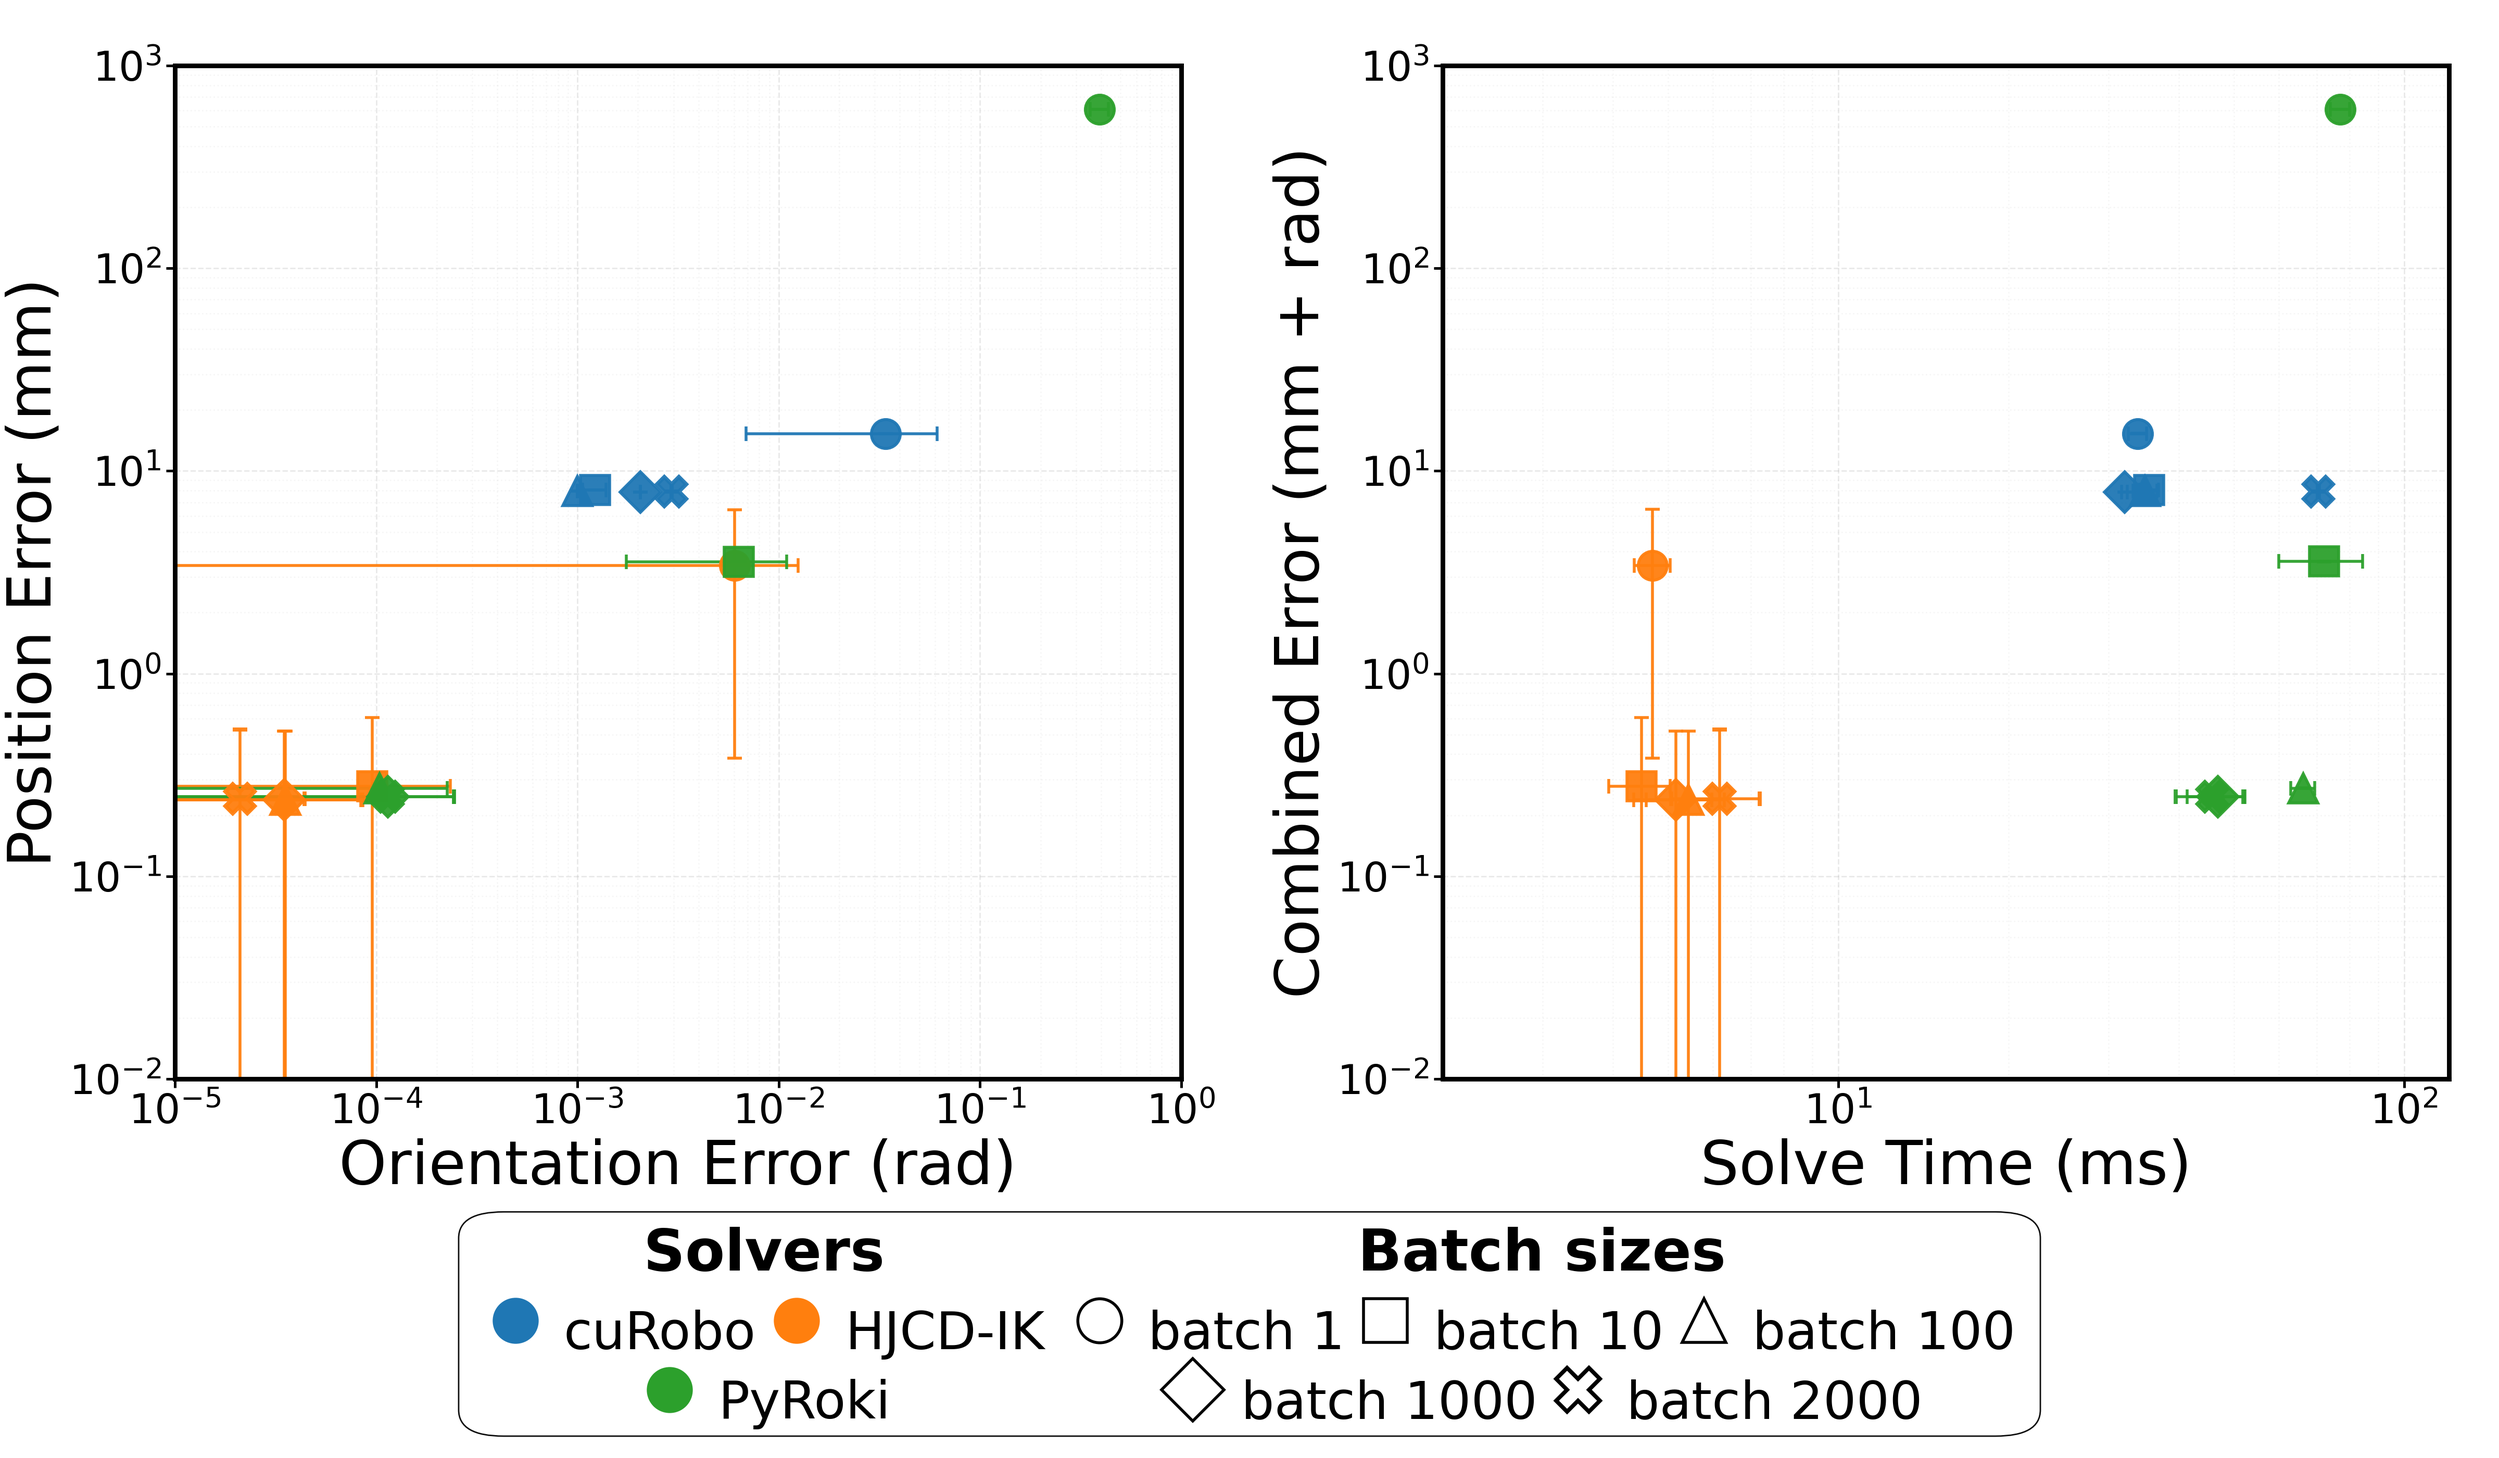
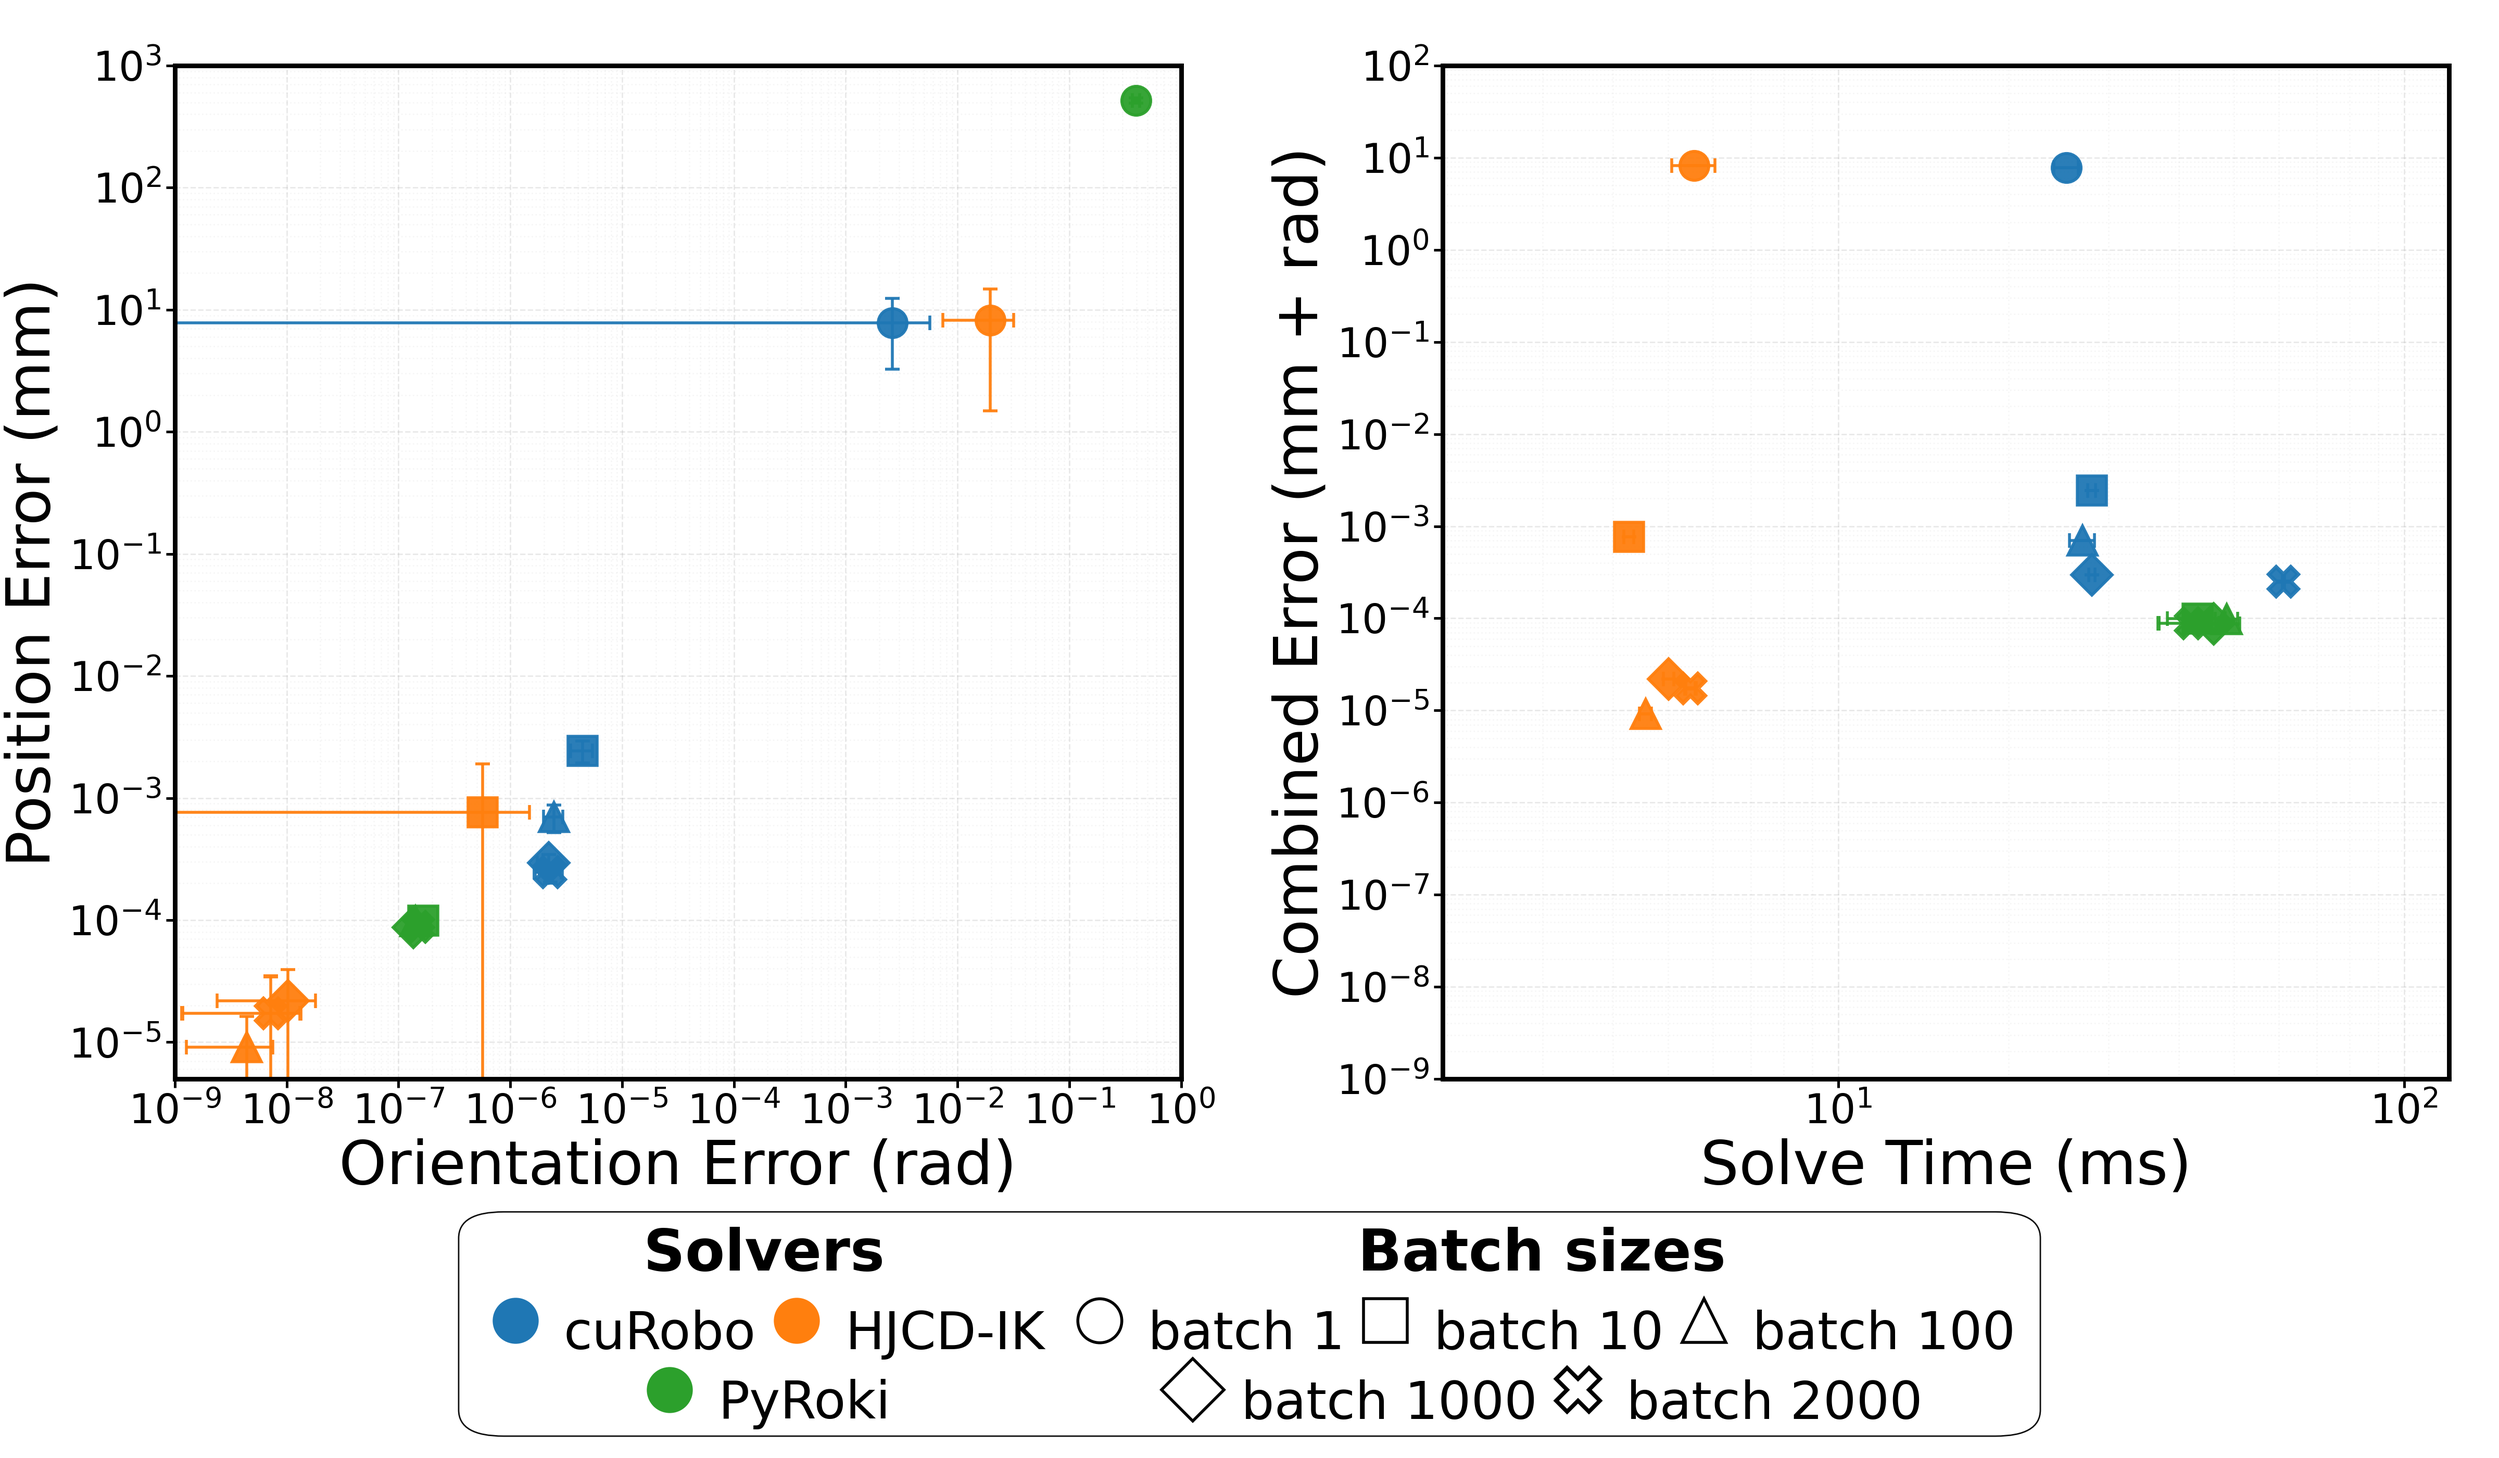
docs: sync Table II + Fig 4 to paper v2 (box_panda scene, +success-rate column)

diff --git a/docs/landing/index.html b/docs/landing/index.html
@@ -165,7 +165,7 @@
     <p class="content has-text-justified">
       We benchmark HJCD-IK against three GPU-parallel solvers — <strong>cuRobo</strong>,
       <strong>IKFlow</strong>, and <strong>PyRoki</strong> — on the 7-DoF Franka Panda and Fetch arms
-      (100 Halton open-world poses; the <em>bookshelf_thin_panda</em> MotionBenchMaker scene for
+      (100 Halton open-world poses; the <em>box_panda</em> MotionBenchMaker scene for
       collision-free), on an NVIDIA RTX 4060. HJCD-IK stays on or near the accuracy–latency Pareto frontier
       across every batch size and DoF, with order-of-magnitude gains:
     </p>
@@ -224,7 +224,7 @@
       </div>
       <div class="column is-one-third has-text-centered">
         <img src="static/images/pareto_collfree.png" alt="Collision-free accuracy-latency Pareto plot">
-        <p class="is-size-7 has-text-grey">Collision-free, bookshelf (Fig. 4, Table II)</p>
+        <p class="is-size-7 has-text-grey">Collision-free, box_panda (Fig. 4, Table II)</p>
       </div>
       <div class="column is-one-third has-text-centered">
         <img src="static/images/pareto_dof.png" alt="DoF scaling accuracy-latency Pareto plot">

diff --git a/docs/source/user_guide/benchmarks/results.rst b/docs/source/user_guide/benchmarks/results.rst
@@ -60,7 +60,7 @@ the GPU baselines cuRobo, PyRoki, and IKFlow, while returning the most diverse (
    **All numbers below are from the camera-ready paper** (`arXiv:2510.07514
    <https://arxiv.org/abs/2510.07514>`_, IROS 2026) — the single source of truth. They were collected on
    an NVIDIA RTX 4060 (Intel i7-14700HX, WSL Ubuntu 24.04, CUDA 12.5) over 100 Halton open-world poses and
-   the *bookshelf_thin_panda* MotionBenchMaker scene. Benchmarks you run locally (see *Reproducing these
+   the *box_panda* MotionBenchMaker scene. Benchmarks you run locally (see *Reproducing these
    results*, below) are for your own validation and will differ with hardware. Position error is in **mm**, orientation error in
    **rad**, time in **ms**; **bold** marks the best (HJCD-IK) value.
 
@@ -242,8 +242,8 @@ Open-world IK — Fetch (Table I)
 
    Open-world accuracy–latency frontier (Table I) — HJCD-IK (orange), cuRobo (blue), PyRoki (green).
 
-Collision-free IK — Panda, bookshelf_thin_panda (Table II)
-----------------------------------------------------------
+Collision-free IK — Panda, box_panda (Table II)
+-----------------------------------------------
 
 .. list-table::
    :header-rows: 1
@@ -253,68 +253,86 @@ Collision-free IK — Panda, bookshelf_thin_panda (Table II)
      - HJCD-IK Time
      - HJCD-IK Pos
      - HJCD-IK Ori
+     - HJCD-IK Succ
      - PyRoki Time
      - PyRoki Pos
      - PyRoki Ori
+     - PyRoki Succ
      - cuRobo Time
      - cuRobo Pos
      - cuRobo Ori
+     - cuRobo Succ
    * - 1
-     - **4.69**
-     - **3.41**
-     - **6.02e-3**
-     - 77.07
-     - 6.09e2
-     - 3.93e-1
-     - 33.70
-     - 8.03
-     - 3.39e-2
+     - **5.44**
+     - 8.17
+     - 1.96e-2
+     - 89.0
+     - 34.04
+     - 5.18e2
+     - 3.96e-1
+     - 6.0
+     - 23.76
+     - 7.85
+     - 2.61e-3
+     - 97.0
    * - 10
-     - **4.48**
-     - **2.78e-1**
-     - **9.57e-5**
-     - 72.17
-     - 3.56
-     - 6.34e-3
-     - 35.43
-     - 8.03
-     - 1.22e-3
+     - **4.19**
+     - 7.11e-4
+     - 5.34e-7
+     - 98.0
+     - 46.29
+     - 9.90e-5
+     - 1.69e-7
+     - 89.0
+     - 29.31
+     - 2.43e-3
+     - 4.00e-6
+     - 100.0
    * - 100
-     - **5.43**
-     - **2.38e-1**
-     - **3.53e-5**
-     - 66.25
-     - 2.72e-1
-     - 1.03e-4
-     - 34.85
-     - 7.84
-     - 2.05e-3
+     - **4.42**
+     - **8.83e-5**
+     - **3.56e-8**
+     - **100.0**
+     - 48.98
+     - 9.80e-5
+     - 1.41e-7
+     - 93.0
+     - 30.76
+     - 6.99e-4
+     - 2.00e-6
+     - 100.0
    * - 1000
-     - **5.16**
-     - **2.38e-1**
-     - **3.50e-5**
-     - 46.83
-     - 2.46e-1
-     - 1.13e-4
-     - 32.05
-     - 7.84
-     - 2.05e-3
+     - **5.04**
+     - **2.03e-5**
+     - **9.06e-9**
+     - **100.0**
+     - 46.98
+     - 8.70e-5
+     - 1.36e-7
+     - 92.0
+     - 28.50
+     - 2.93e-4
+     - 2.00e-6
+     - 100.0
    * - 2000
-     - **6.16**
-     - **2.41e-1**
-     - **2.09e-5**
-     - 45.72
-     - 2.46e-1
-     - 1.14e-4
-     - 70.55
-     - 7.92
-     - 2.94e-3
+     - **5.35**
+     - **1.71e-5**
+     - **7.16e-9**
+     - **100.0**
+     - 35.74
+     - 8.80e-5
+     - 1.49e-7
+     - 90.0
+     - 61.96
+     - 2.47e-4
+     - 2.00e-6
+     - 100.0
 
 .. figure:: /_static/paper/pareto_collfree.png
    :width: 100%
    :alt: Collision-free accuracy–latency Pareto frontier
 
-   Collision-free frontier on the *bookshelf_thin_panda* scene (Fig. 4, Table II).
+   Collision-free frontier on the *box_panda* scene (Fig. 4, Table II).
 
 .. note::
 
@@ -434,9 +452,9 @@ comparison.
 .. code-block:: bash
 
    python benchmark/hjcd_ik_bench.py --skip-grid-codegen --batches 1,10,100,1000,2000 --num-targets 100
-   # collision-free (Panda bookshelf):
+   # collision-free (Panda box_panda, the paper's Table II scene):
    python benchmark/hjcd_ik_bench.py --skip-grid-codegen --collision-free \
-       --problems-json tests/mb_problems.json --problem-set bookshelf_thin_panda --batches 1,10,100,1000
+       --problems-json tests/mb_problems.json --problem-set box_panda --batches 1,10,100,1000
 
 The harness reports solved-rate, mean position / orientation error, and timing per batch size — the metrics
 ``tests/test_regression.py`` asserts against a committed baseline. Isolate timing runs (no concurrent GPU
